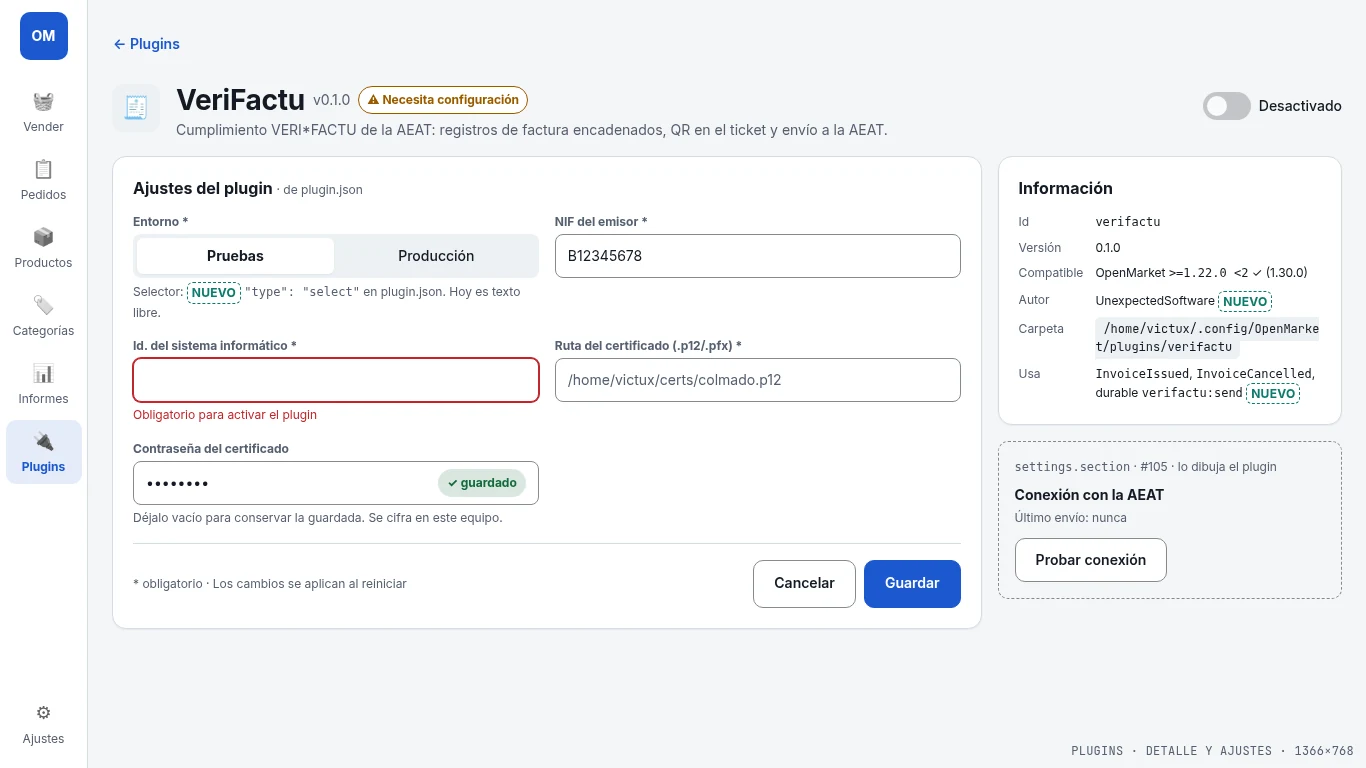
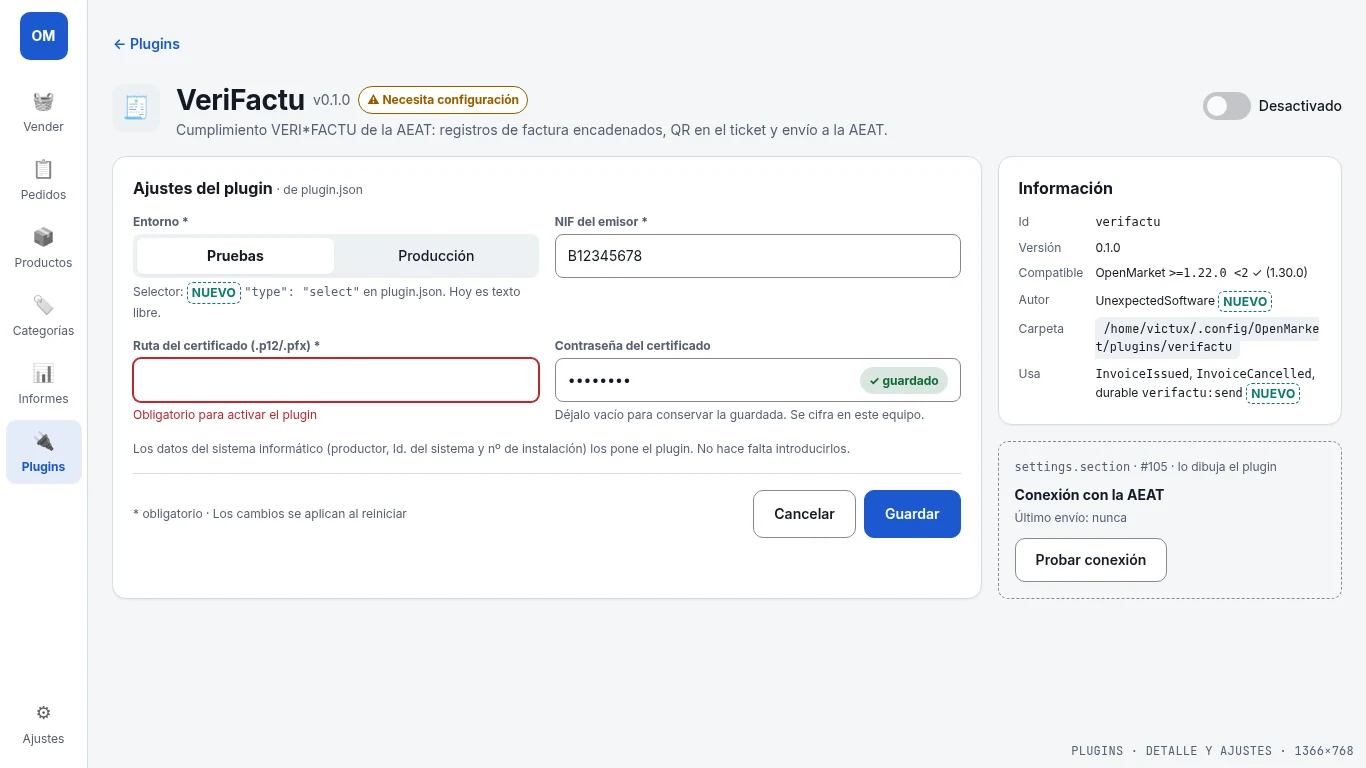
Show VeriFactu with three required settings; softwareId is producer data

diff --git a/docs/design/mockups/src/A-plugins-needs-setup.html b/docs/design/mockups/src/A-plugins-needs-setup.html
@@ -77,8 +77,8 @@ dl{display:grid;grid-template-columns:auto minmax(0,1fr);gap:var(--om-space-2) v
 <div class="btn sm">📂 Abrir carpeta de plugins <span class="new">nuevo</span></div></div><div class="t xs muted">3 plugins en <span class=path>/home/victux/.config/OpenMarket/plugins</span></div><div class="list"><article class="card pc"><div class="ico">🧾</div>
 <div style="min-width:0"><div class="t"><span class="name">VeriFactu</span><span class="muted">v0.1.0</span><span class="muted">· UnexpectedSoftware</span> <span class="new">nuevo</span><span class="st warn">⚠ Necesita configuración</span></div>
 <div class="desc">Cumplimiento VERI*FACTU de la AEAT: registros de factura encadenados, QR en el ticket y envío a la AEAT.</div>
-<div class="meta"><span class="chip">OpenMarket <code>&gt;=1.22.0 &lt;2</code></span></div><div class="todo"><div class="b" style="color:var(--om-color-warning)">Faltan 4 ajustes obligatorios para activarlo</div>
-<ul class="muted"><li>Entorno (pruebas o producción)</li><li>NIF del emisor</li><li>Id. del sistema informático</li><li>Ruta del certificado (.p12/.pfx)</li></ul></div></div>
+<div class="meta"><span class="chip">OpenMarket <code>&gt;=1.22.0 &lt;2</code></span></div><div class="todo"><div class="b" style="color:var(--om-color-warning)">Faltan 3 ajustes obligatorios para activarlo</div>
+<ul class="muted"><li>Entorno (pruebas o producción)</li><li>NIF del emisor</li><li>Ruta del certificado (.p12/.pfx)</li></ul></div></div>
 <div class="side"><div class="tg"><span class="sw dis"></span>Desactivado</div><div class="btn p">Configurar VeriFactu →</div></div></article><article class="card pc"><div class="ico">🏷</div>
 <div style="min-width:0"><div class="t"><span class="name">Etiquetas de estante</span><span class="muted">v1.2.0</span><span class="muted">· Ejemplo S.L.</span> <span class="new">nuevo</span> <span class="ex">Ejemplo</span><span class="st ok">✓ Activo</span></div>
 <div class="desc">Imprime una etiqueta de precio para cada producto nuevo.</div>

diff --git a/docs/design/mockups/src/A-plugins-detail.html b/docs/design/mockups/src/A-plugins-detail.html
@@ -80,10 +80,10 @@ dl{display:grid;grid-template-columns:auto minmax(0,1fr);gap:var(--om-space-2) v
 <div class="grid2">
 <div class="fld"><label>Entorno *</label><div class="seg"><span class="on">Pruebas</span><span>Producción</span></div><div class="xs muted">Selector: <span class="new">nuevo</span> <code>"type": "select"</code> en plugin.json. Hoy es texto libre.</div></div>
 <div class="fld"><label>NIF del emisor *</label><div class="in">B12345678</div></div>
-<div class="fld"><label>Id. del sistema informático *</label><div class="in bad"></div><div class="err-t">Obligatorio para activar el plugin</div></div>
-<div class="fld"><label>Ruta del certificado (.p12/.pfx) *</label><div class="in"><span class="grow muted" style="overflow:hidden;text-overflow:ellipsis;white-space:nowrap">/home/victux/certs/colmado.p12</span></div></div>
+<div class="fld"><label>Ruta del certificado (.p12/.pfx) *</label><div class="in bad"></div><div class="err-t">Obligatorio para activar el plugin</div></div>
 <div class="fld"><label>Contraseña del certificado</label><div class="in"><span class="grow">••••••••</span><span class="st ok">✓ guardado</span></div><div class="xs muted">Déjalo vacío para conservar la guardada. Se cifra en este equipo.</div></div>
 </div>
+<div class="xs muted" style="margin-top:var(--om-space-4)">Los datos del sistema informático (productor, Id. del sistema y nº de instalación) los pone el plugin. No hace falta introducirlos.</div>
 <div class="ft"><span class="xs muted" style="margin-right:auto;align-self:center">* obligatorio · Los cambios se aplican al reiniciar</span><div class="btn">Cancelar</div><div class="btn p">Guardar</div></div>
 </section>
 <aside style="display:flex;flex-direction:column;gap:var(--om-space-4);min-width:0">

diff --git a/docs/design/mockups/src/plugins.py b/docs/design/mockups/src/plugins.py
@@ -145,8 +145,8 @@ def listing(vf_state):
     enc = '<div class="banner info xs">🔒 Las contraseñas de los plugins se guardan cifradas en este equipo.</div>'
     cards = []
     if vf_state == "warn":
-        missing = '''<div class="todo"><div class="b" style="color:var(--om-color-warning)">Faltan 4 ajustes obligatorios para activarlo</div>
-<ul class="muted"><li>Entorno (pruebas o producción)</li><li>NIF del emisor</li><li>Id. del sistema informático</li><li>Ruta del certificado (.p12/.pfx)</li></ul></div>'''
+        missing = '''<div class="todo"><div class="b" style="color:var(--om-color-warning)">Faltan 3 ajustes obligatorios para activarlo</div>
+<ul class="muted"><li>Entorno (pruebas o producción)</li><li>NIF del emisor</li><li>Ruta del certificado (.p12/.pfx)</li></ul></div>'''
         cards.append(card("🧾", "VeriFactu", "0.1.0", "UnexpectedSoftware", VF_DESC, "&gt;=1.22.0 &lt;2", [], "warn",
             toggle(False, "Desactivado", dis=True), '<div class="btn p">Configurar VeriFactu →</div>', missing))
     else:
@@ -174,10 +174,10 @@ detail = f'''<div class="t"><span class="btn g" style="padding-left:0">← Plugi
 <div class="grid2">
 <div class="fld"><label>Entorno *</label><div class="seg"><span class="on">Pruebas</span><span>Producción</span></div><div class="xs muted">Selector: <span class="new">nuevo</span> <code>"type": "select"</code> en plugin.json. Hoy es texto libre.</div></div>
 <div class="fld"><label>NIF del emisor *</label><div class="in">B12345678</div></div>
-<div class="fld"><label>Id. del sistema informático *</label><div class="in bad"></div><div class="err-t">Obligatorio para activar el plugin</div></div>
-<div class="fld"><label>Ruta del certificado (.p12/.pfx) *</label><div class="in"><span class="grow muted" style="overflow:hidden;text-overflow:ellipsis;white-space:nowrap">/home/victux/certs/colmado.p12</span></div></div>
+<div class="fld"><label>Ruta del certificado (.p12/.pfx) *</label><div class="in bad"></div><div class="err-t">Obligatorio para activar el plugin</div></div>
 <div class="fld"><label>Contraseña del certificado</label><div class="in"><span class="grow">••••••••</span><span class="st ok">✓ guardado</span></div><div class="xs muted">Déjalo vacío para conservar la guardada. Se cifra en este equipo.</div></div>
 </div>
+<div class="xs muted" style="margin-top:var(--om-space-4)">Los datos del sistema informático (productor, Id. del sistema y nº de instalación) los pone el plugin. No hace falta introducirlos.</div>
 <div class="ft"><span class="xs muted" style="margin-right:auto;align-self:center">* obligatorio · Los cambios se aplican al reiniciar</span><div class="btn">Cancelar</div><div class="btn p">Guardar</div></div>
 </section>
 <aside style="display:flex;flex-direction:column;gap:var(--om-space-4);min-width:0">

diff --git a/docs/design/plans/plugins-screen.md b/docs/design/plans/plugins-screen.md
@@ -18,7 +18,7 @@ Anything tagged **nuevo** in the mockups needs data or an action the host does n
 - **Restart:** `restartRequired` is a renderer flag set after any save. No relaunch action. No IPC to open the folder (`main.development.js` only has `shell.openExternal`).
 - **Secrets:** `encryption.backend === 'basic_text'` or `available === false` shows "Secrets are stored with basic encryption".
 - `PluginSlot.js` renders nothing (#105 open).
-- Verifactu `plugin.json` (0.1.0, `>=1.22.0 <2`): `environment` (free text "pruebas | produccion"), `nif`, `softwareId`, `certificatePath` required; `certificatePassword` secret, not required. Labels are English. Phase 1 registers sync `InvoiceIssued`/`InvoiceCancelled` and durable `verifactu:send`/`verifactu:send-cancellation`; no receipt slot yet.
+- Verifactu `plugin.json` (0.1.0, `>=1.22.0 <2`): `environment` (free text "pruebas | produccion"), `nif`, `softwareId`, `certificatePath` required; `certificatePassword` secret, not required. `softwareId` (IdSistemaInformatico) is producer data and is being removed ([openmarket-plugin-verifactu#10](https://github.com/UnexpectedSoftware/openmarket-plugin-verifactu/issues/10)), so the mockups show the three required settings that remain: Entorno, NIF del emisor and Ruta del certificado, plus the secret password. Labels are English. Phase 1 registers sync `InvoiceIssued`/`InvoiceCancelled` and durable `verifactu:send`/`verifactu:send-cancellation`; no receipt slot yet.
 
 ## Statuses
 
@@ -83,7 +83,7 @@ Each chunk is one PR, branched from master, smallest first. P1–P3 do not depen
 
 - `FolderPluginSource` keeps `author` (string), a setting `type` of `text` (default) or `select` with `options: [{value, label}]`, and an optional `apiVersion` number. A select with no valid options, or an `apiVersion` the host does not support, makes the plugin "Incompatible" with a clear reason (not a silent skip).
 - `SavePlugin` rejects a select value outside its options. P5's form renders `select` as the segmented control in the mockup (Pruebas / Producción).
-- `docs/plugins.md` documents the fields. Follow-up PR in `openmarket-plugin-verifactu`: `"type": "select"` for `environment`, Spanish labels, `author`.
+- `docs/plugins.md` documents the fields. Follow-up PR in `openmarket-plugin-verifactu`: `"type": "select"` for `environment`, Spanish labels, `author` (after #10 removes `softwareId`).
 - **Acceptance:** source and save specs for each new field and each rejection. `Version: none`.
 
 ### P7 — diagnostics: bad folders and "Usa" (host change)
